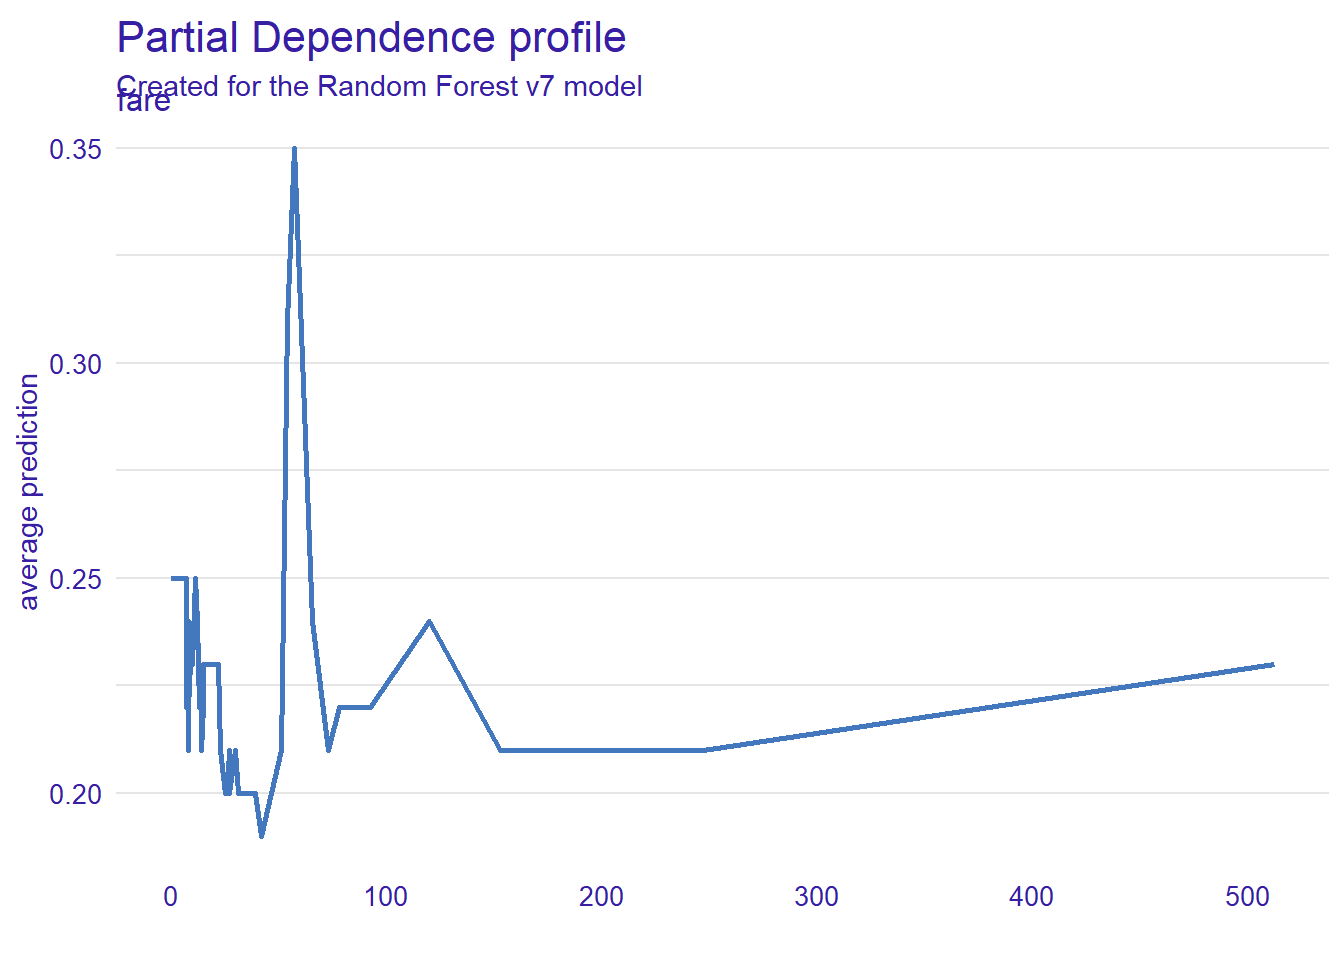
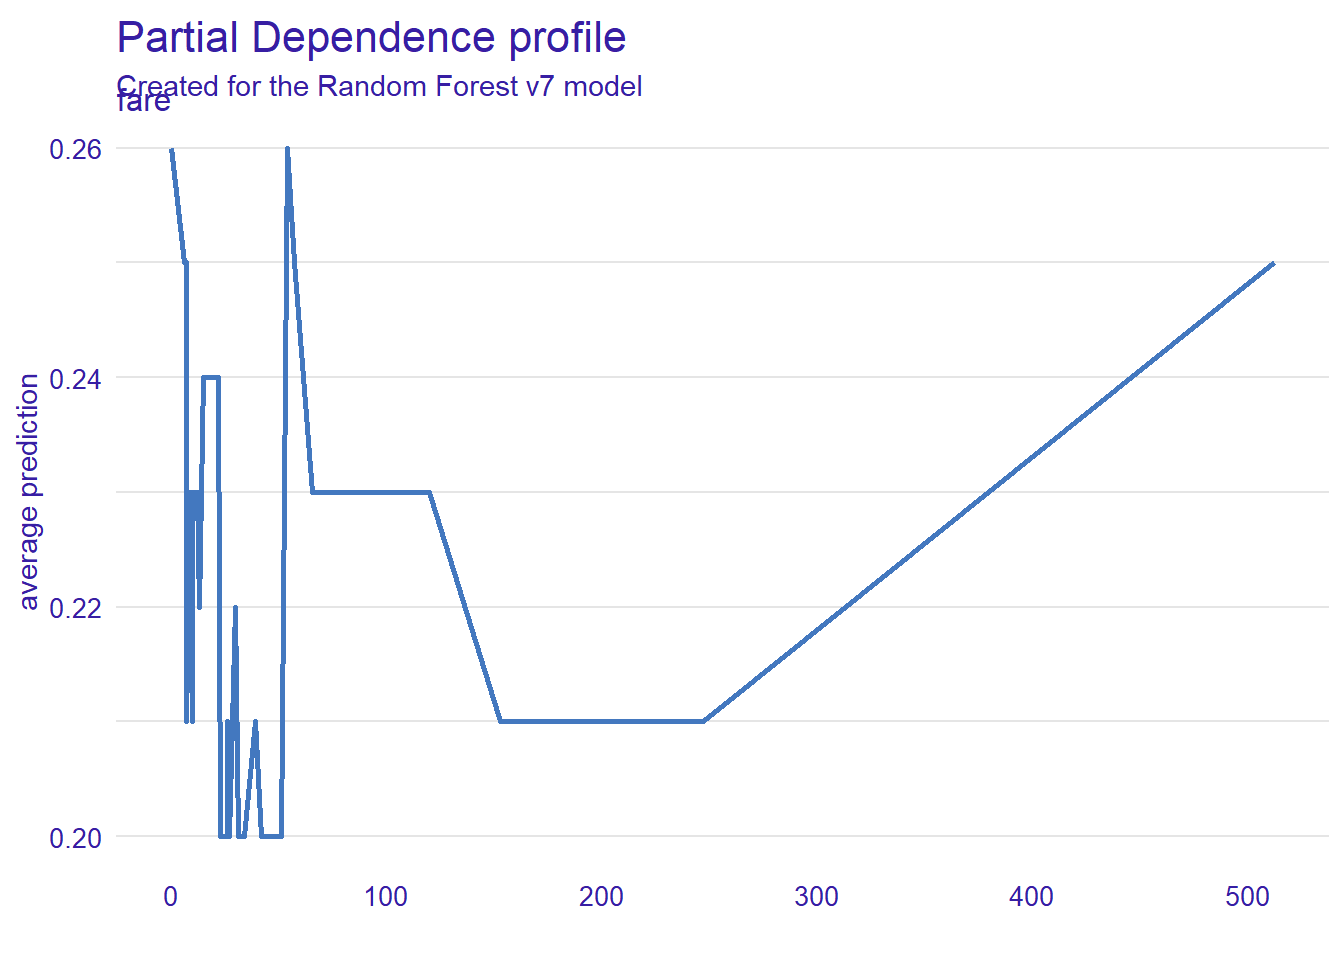
。

diff --git a/_site/r/2023/10/10-08-survival-learning/index.html b/_site/r/2023/10/10-08-survival-learning/index.html
@@ -142,18 +142,14 @@ pre > code.sourceCode > span > a:first-child::before { text-decoration: underlin
   </li>
   <li class="nav-item">
     <a class="nav-link" href="../../../../r/index.html" rel="" target="">
- <span class="menu-text">R and Rstudio</span></a>
+ <span class="menu-text">R</span></a>
   </li>  
   <li class="nav-item">
     <a class="nav-link" href="../../../../link.html" rel="" target="">
  <span class="menu-text">link</span></a>
   </li>  
-  <li class="nav-item">
-    <a class="nav-link" href="https://guozheng.rbind.io" rel="" target="">
- <span class="menu-text">Chinese</span></a>
-  </li>  
   <li class="nav-item compact">
-    <a class="nav-link" href="https://github.com/residualsun1/" rel="" target=""><i class="bi bi-github" role="img">
+    <a class="nav-link" href="https://github.com/xxxxx" rel="" target=""><i class="bi bi-github" role="img">
 </i> 
  <span class="menu-text"></span></a>
   </li>  
@@ -325,7 +321,7 @@ Mtry:                             2
 Target node size:                 1 
 Variable importance mode:         none 
 Splitrule:                        gini 
-OOB prediction error:             19.71 % </code></pre>
+OOB prediction error:             19.44 % </code></pre>
 </div>
 </div>
 <p><code>model_titanic_rf</code>即我们创建的一个随机森林模型（random forest model）</p>
@@ -348,9 +344,9 @@ OOB prediction error:             19.71 % </code></pre>
   -&gt; predict function  :  yhat.ranger  will be used (  default  )
   -&gt; predicted values  :  No value for predict function target column. (  default  )
   -&gt; model_info        :  package ranger , ver. 0.15.1 , task classification (  default  ) 
-  -&gt; predicted values  :  numerical, min =  0 , mean =  0.2147712 , max =  1  
+  -&gt; predicted values  :  numerical, min =  0 , mean =  0.2079746 , max =  1  
   -&gt; residual function :  difference between y and yhat (  default  )
-  -&gt; residuals         :  numerical, min =  -1 , mean =  0.1073856 , max =  1  
+  -&gt; residuals         :  numerical, min =  -1 , mean =  0.1155415 , max =  1  
   A new explainer has been created!  </code></pre>
 </div>
 </div>
@@ -363,12 +359,12 @@ OOB prediction error:             19.71 % </code></pre>
 <span id="cb11-2"><a href="#cb11-2" aria-hidden="true" tabindex="-1"></a><span class="fu">head</span>(vi_rf)</span></code><button title="Copy to Clipboard" class="code-copy-button"><i class="bi"></i></button></pre></div>
 <div class="cell-output cell-output-stdout">
 <pre><code>      variable mean_dropout_loss            label
-1 _full_model_         0.2087145 Random Forest v7
-2     survived         0.2085521 Random Forest v7
-3        parch         0.2236533 Random Forest v7
-4        sibsp         0.2310465 Random Forest v7
-5     embarked         0.2313248 Random Forest v7
-6         fare         0.2590097 Random Forest v7</code></pre>
+1 _full_model_         0.2155270 Random Forest v7
+2     survived         0.2152929 Random Forest v7
+3        sibsp         0.2324963 Random Forest v7
+4        parch         0.2329015 Random Forest v7
+5     embarked         0.2387845 Random Forest v7
+6         fare         0.2616076 Random Forest v7</code></pre>
 </div>
 </div>
 <div class="cell">
@@ -392,47 +388,47 @@ OOB prediction error:             19.71 % </code></pre>
 <div class="cell-output cell-output-stdout">
 <pre><code>$cp_profiles
 Top profiles    : 
-      gender        age class    embarked  fare sibsp parch survived _yhat_
-314     male  0.1666667   3rd Southampton 16.02     1     0        0      1
-314.1   male  2.0000000   3rd Southampton 16.02     1     0        0      1
-314.2   male  4.0000000   3rd Southampton 16.02     1     0        0      1
-314.3   male  7.0000000   3rd Southampton 16.02     1     0        0      0
-314.4   male  9.0000000   3rd Southampton 16.02     1     0        0      0
-314.5   male 13.0000000   3rd Southampton 16.02     1     0        0      0
-      _vname_ _ids_          _label_
-314       age   314 Random Forest v7
-314.1     age   314 Random Forest v7
-314.2     age   314 Random Forest v7
-314.3     age   314 Random Forest v7
-314.4     age   314 Random Forest v7
-314.5     age   314 Random Forest v7
+       gender        age class    embarked fare sibsp parch survived _yhat_
+1247     male  0.1666667   1st Southampton   34     0     0        0      1
+1247.1   male  2.0000000   1st Southampton   34     0     0        0      1
+1247.2   male  4.0000000   1st Southampton   34     0     0        0      1
+1247.3   male  7.0000000   1st Southampton   34     0     0        0      0
+1247.4   male  9.0000000   1st Southampton   34     0     0        0      0
+1247.5   male 13.0000000   1st Southampton   34     0     0        0      0
+       _vname_ _ids_          _label_
+1247       age  1247 Random Forest v7
+1247.1     age  1247 Random Forest v7
+1247.2     age  1247 Random Forest v7
+1247.3     age  1247 Random Forest v7
+1247.4     age  1247 Random Forest v7
+1247.5     age  1247 Random Forest v7
 
 
 Top observations:
      gender age            class    embarked    fare sibsp parch survived
-314    male  32              3rd Southampton 16.0200     1     0        0
-311  female  48              2nd Southampton 36.1500     0     2        1
-477    male  20 engineering crew Southampton  0.0000     0     0        0
-1669   male  26 victualling crew Southampton  0.0000     0     0        0
-597    male  21              3rd Southampton  7.0100     0     0        0
-768  female  28              3rd  Queenstown  7.1409     0     0        1
+1247   male  48              1st Southampton 34.0000     0     0        0
+943    male  30              1st     Belfast 89.0000     0     0        0
+535    male  30              3rd Southampton  7.1711     0     0        0
+1926   male  31 victualling crew Southampton  0.0000     0     0        0
+981  female  32              2nd Southampton 13.0000     0     0        1
+552  female  22              3rd Southampton 12.0509     1     1        1
      _yhat_          _label_ _ids_
-314       0 Random Forest v7     1
-311       1 Random Forest v7     2
-477       0 Random Forest v7     3
-1669      0 Random Forest v7     4
-597       0 Random Forest v7     5
-768       1 Random Forest v7     6
+1247      0 Random Forest v7     1
+943       0 Random Forest v7     2
+535       0 Random Forest v7     3
+1926      0 Random Forest v7     4
+981       1 Random Forest v7     5
+552       1 Random Forest v7     6
 
 $agr_profiles
 Top profiles    : 
   _vname_          _label_        _x_ _yhat_ _ids_
-1     age Random Forest v7  0.1666667   0.51     0
-2     age Random Forest v7  2.0000000   0.58     0
-3     age Random Forest v7  4.0000000   0.59     0
-4     age Random Forest v7  7.0000000   0.52     0
-5     age Random Forest v7  9.0000000   0.49     0
-6     age Random Forest v7 13.0000000   0.34     0
+1     age Random Forest v7  0.1666667   0.55     0
+2     age Random Forest v7  2.0000000   0.64     0
+3     age Random Forest v7  4.0000000   0.66     0
+4     age Random Forest v7  7.0000000   0.54     0
+5     age Random Forest v7  9.0000000   0.53     0
+6     age Random Forest v7 13.0000000   0.30     0
 
 $color
 [1] "#4378bf"</code></pre>
@@ -580,9 +576,9 @@ Attaching package: 'Hmisc'</code></pre>
   -&gt; predict function  :  function(m, x) predict(m, x, n.trees = 15000, type = "response") 
   -&gt; predicted values  :  No value for predict function target column. (  default  )
   -&gt; model_info        :  package gbm , ver. 2.1.8.1 , task classification (  default  ) 
-  -&gt; predicted values  :  numerical, min =  0.0003206353 , mean =  0.3218191 , max =  0.9988154  
+  -&gt; predicted values  :  numerical, min =  0.0004344323 , mean =  0.3237439 , max =  0.9985729  
   -&gt; residual function :  difference between y and yhat (  default  )
-  -&gt; residuals         :  numerical, min =  -0.9527987 , mean =  0.0003376563 , max =  0.9923028  
+  -&gt; residuals         :  numerical, min =  -0.9717102 , mean =  -0.001587121 , max =  0.9936794  
   A new explainer has been created!  </code></pre>
 </div>
 </div>
@@ -614,9 +610,9 @@ Attaching package: 'e1071'</code></pre>
   -&gt; predict function  :  yhat.svm  will be used (  default  )
   -&gt; predicted values  :  No value for predict function target column. (  default  )
   -&gt; model_info        :  package e1071 , ver. 1.7.13 , task classification (  default  ) 
-  -&gt; predicted values  :  numerical, min =  0.08775299 , mean =  0.3236927 , max =  0.9625715  
+  -&gt; predicted values  :  numerical, min =  0.08809287 , mean =  0.3236259 , max =  0.9621217  
   -&gt; residual function :  difference between y and yhat (  default  )
-  -&gt; residuals         :  numerical, min =  -0.8658474 , mean =  -0.00153592 , max =  0.912247  
+  -&gt; residuals         :  numerical, min =  -0.8648811 , mean =  -0.001469105 , max =  0.9119071  
   A new explainer has been created!  </code></pre>
 </div>
 </div>

diff --git a/_site/index.html b/_site/index.html
@@ -692,7 +692,7 @@ No matching items
 <h2 class="anchored" data-anchor-id="r-and-rtudio">R and Rtudio</h2>
 <div id="listing-r" class="quarto-listing quarto-listing-container-grid">
 <div class="list grid quarto-listing-cols-3">
-<div class="g-col-1" data-index="0" data-categories="机器学习" data-listing-date-sort="1696694400000" data-listing-file-modified-sort="1696732639482" data-listing-date-modified-sort="NaN" data-listing-reading-time-sort="5">
+<div class="g-col-1" data-index="0" data-categories="机器学习" data-listing-date-sort="1696694400000" data-listing-file-modified-sort="1696739608467" data-listing-date-modified-sort="NaN" data-listing-reading-time-sort="5">
 <a href="./r/2023/10/10-08-survival-learning/index.html" class="quarto-grid-link">
 <div class="quarto-grid-item card h-100 card-left">
 <p class="card-img-top">

diff --git a/_site/r/index.html b/_site/r/index.html
@@ -216,7 +216,7 @@ ul.task-list li input[type="checkbox"] {
     </div>
 </div>
 <div class="list quarto-listing-default">
-<div class="quarto-post image-right" data-index="0" data-categories="机器学习" data-listing-date-sort="1696694400000" data-listing-file-modified-sort="1696732639482" data-listing-date-modified-sort="NaN" data-listing-reading-time-sort="5">
+<div class="quarto-post image-right" data-index="0" data-categories="机器学习" data-listing-date-sort="1696694400000" data-listing-file-modified-sort="1696739608467" data-listing-date-modified-sort="NaN" data-listing-reading-time-sort="5">
 <div class="thumbnail">
 <p><a href="../r/2023/10/10-08-survival-learning/index.html"> <img src="../r/2023/10/10-08-survival-learning/image.jpg" class="thumbnail-image"> </a></p>
 </div>
